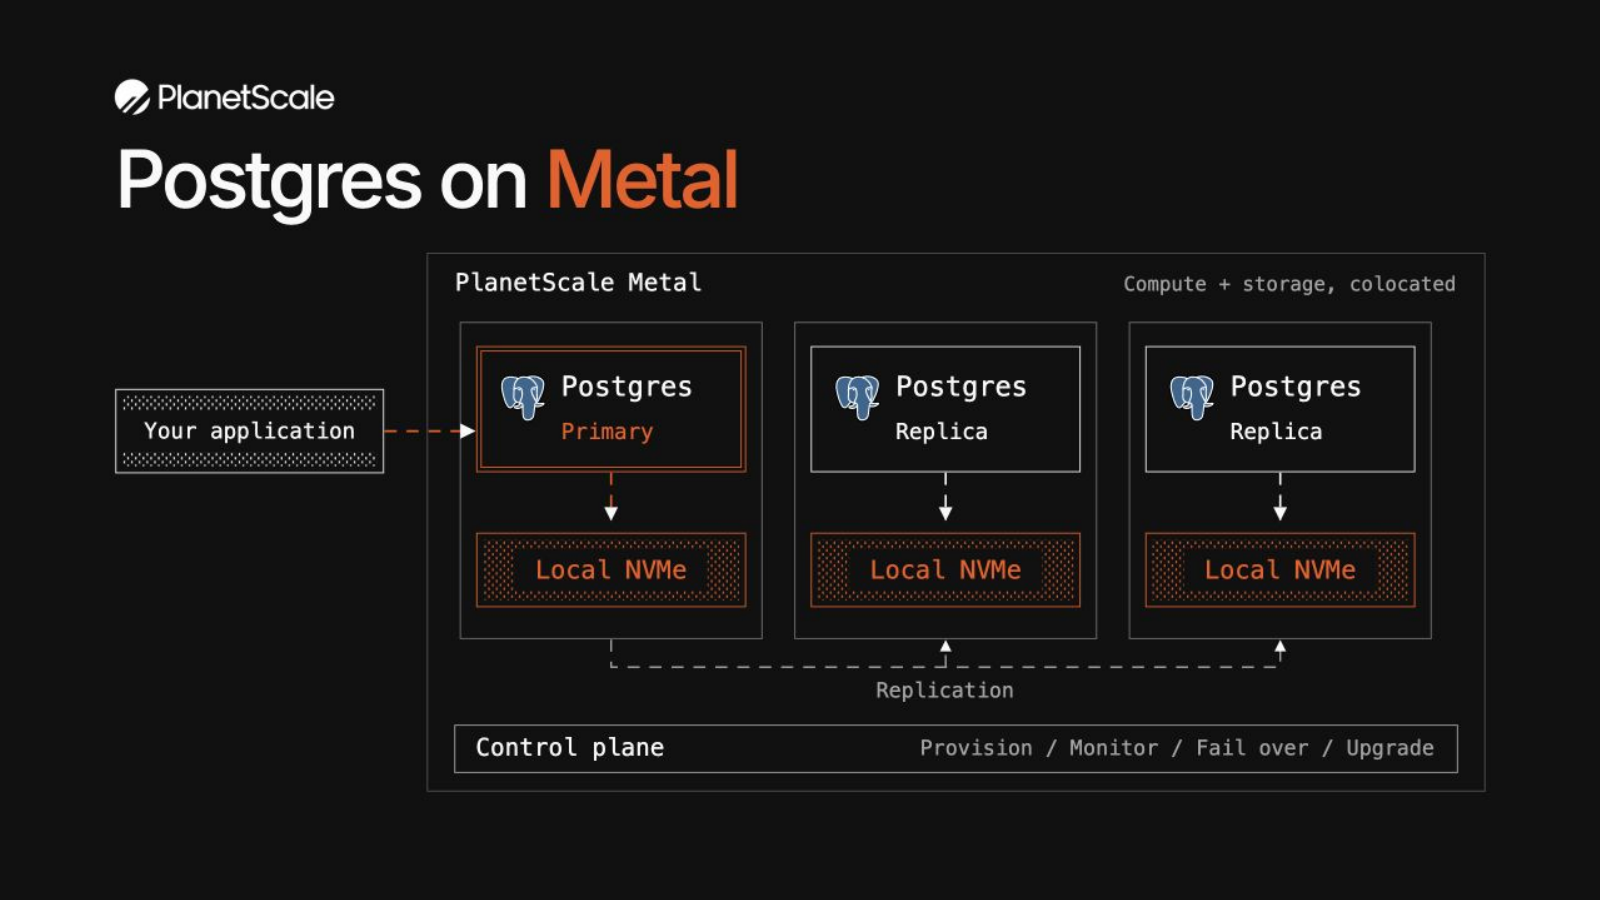
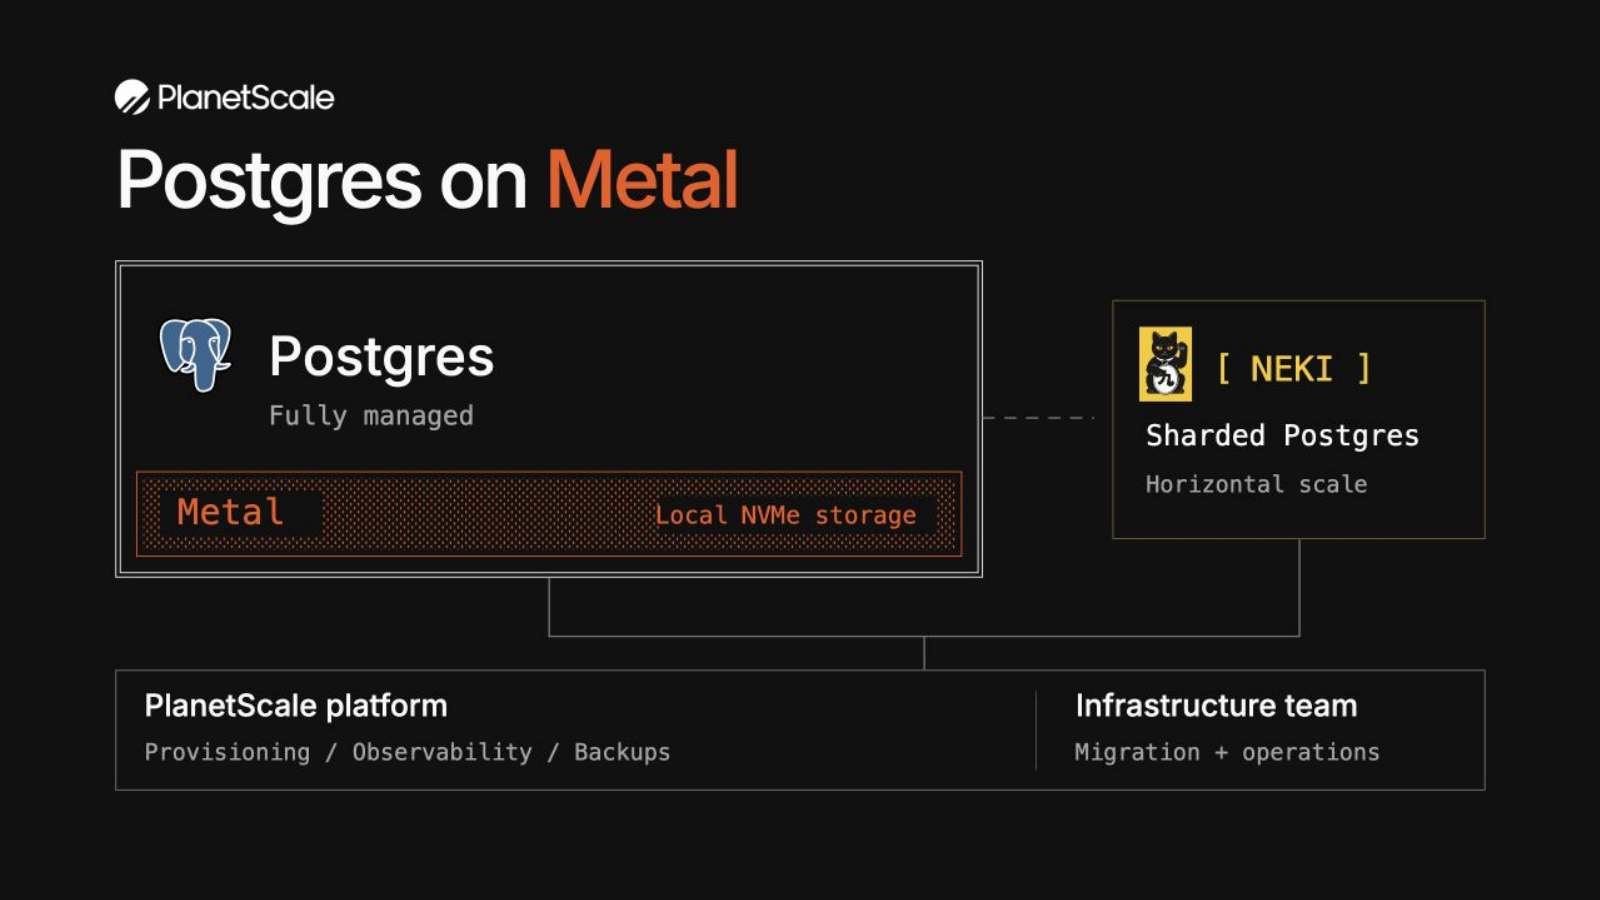
Introduce product portfolio and platform on opening slide

Changed region(s): [[0.0625, 0.28, 0.9375, 0.7778], [0.0938, 0.7467, 0.9062, 0.9022], [0.25, 0.7156, 0.2812, 0.7467]]

diff --git a/build_content.py b/build_content.py
@@ -19,26 +19,31 @@ def db(x,y,w=170,h=94,color=LINE):
 def stipple_box(x,y,w,h,label,mark,color=WHITE,size=24):
     return rect(x,y,w,h,INK,color)+rect(x+6,y+6,w-12,h-12,f'url(#{mark})','none')+rect(x+w/2-len(label)*size*.33-12,y+h/2-19,len(label)*size*.66+24,38,INK,'none')+txt(x+w/2,y+h/2+size*.34,label,size,color,'middle')
 
-# Opening: the managed Metal cluster is the hero, with a separate operating plane.
-b=rect(285,1,964,490,INK,'#555555')
-b+=txt(310,35,'PlanetScale Metal',22,WHITE)
-b+=txt(1223,35,'Compute + storage, colocated',18,GRAY,'end')
-b+=stipple_box(1,125,244,76,'Your application','metal-hero-dots',WHITE,20)
-for x,role,color in [(330,'Primary',ORANGE),(635,'Replica',WHITE),(940,'Replica',WHITE)]:
-    b+=rect(x-15,64,275,288,INK,'#777777')
-    b+=(db(x,86,245,114,color) if role=='Primary' else rect(x,86,245,114,INK,color))
-    b+=f'<image href="assets/postgresql.svg" x="{x+21}" y="111" width="42" height="44"/>'
-    b+=txt(x+77,131,'Postgres',25,WHITE)+txt(x+77,170,role,20,color)
-    b+=path(f'M{x+122.5} 201V244',color,1.8,True,arrow='metal-hero')
-    b+=stipple_box(x,256,245,67,'Local NVMe','metal-hero-accent',ORANGE,23)
-b+=path('M246 163H328',ORANGE,2,True,arrow='metal-hero')
-b+=path('M452.5 353V378H1062.5V354',GRAY,1.5,True,arrow='metal-hero')
-b+=path('M757.5 378V354',GRAY,1.5,True,arrow='metal-hero')
-b+=txt(757,406,'Replication',19,GRAY,'middle')
-b+=rect(310,431,914,43,INK,'#aaaaaa')
-b+=txt(329,459,'Control plane',22,WHITE)
-b+=txt(1203,458,'Provision / Monitor / Fail over / Upgrade',19,GRAY,'end')
-servers=svg(1250,494,b,'Your application connects to a Postgres primary on PlanetScale Metal. Each of the three database nodes pairs Postgres compute with local NVMe storage. The primary replicates to two replicas. A separate PlanetScale control plane operates the infrastructure.',mark='metal-hero')
+# Opening: product portfolio and operating foundation, not a node topology.
+b=db(1,8,790,288,WHITE)
+b+='<image href="assets/postgresql.svg" x="39" y="58" width="69" height="72"/>'
+b+=txt(140,112,'Postgres',49,WHITE,weight=500,mono=False)
+b+=txt(140,157,'Fully managed',24,GRAY)
+b+=rect(20,200,752,77,INK,ORANGE)
+b+=rect(26,206,740,65,'url(#metal-hero-accent)','none')
+b+=rect(42,217,147,42,INK,'none')+txt(58,248,'Metal',32,ORANGE)
+b+=rect(497,222,253,35,INK,'none')+txt(731,247,'Local NVMe storage',22,ORANGE,'end')
+b+=path('M791 151H893','#777777',1.5,True)
+b+=rect(910,44,339,217,INK,'#77632b')
+b+=rect(934,68,48,68,YELLOW,'none')
+b+='<image href="assets/neki-cat.svg" x="940" y="72" width="38" height="58"/>'
+b+=txt(1000,117,'[ NEKI ]',31,YELLOW)
+b+=txt(940,176,'Sharded Postgres',26,WHITE)
+b+=txt(940,219,'Horizontal scale',21,GRAY)
+b+=path('M396 297V350H1080V262','#777777',1.5)
+b+=path('M738 350V380','#777777',1.5)
+b+=rect(1,381,1248,109,INK,'#777777')
+b+=txt(27,423,'PlanetScale platform',28,WHITE,weight=500,mono=False)
+b+=txt(27,463,'Provisioning / Observability / Backups',21,GRAY)
+b+=path('M840 400V472','#555555',1)
+b+=txt(876,423,'Infrastructure team',28,WHITE,weight=500,mono=False)
+b+=txt(876,463,'Migration + operations',21,GRAY)
+servers=svg(1250,494,b,'PlanetScale product overview: fully managed Postgres on Metal with local NVMe storage, alongside Neki for sharded Postgres and horizontal scale. The PlanetScale platform and infrastructure team support the database products. This is a product map, not a query path or migration flow.',mark='metal-hero')
 
 # HA: full-height architecture makes the query paths and control plane the focus.
 b=stipple_box(470,0,310,52,'Application','ha-arrow-dots',WHITE,25)
@@ -143,7 +148,7 @@ b+=txt(60,365,'QUERIES / SECOND',15,'#b9a762',mono=True)+txt(756,365,'LOG SCALES
 scale=svg(820,380,b,'Neki read-only point-select benchmark: 5 shards delivered 999,624 QPS; 50 shards delivered 9,923,900 QPS; 512 shards delivered 118,538,803 QPS. Both axes use logarithmic scales.',mark='scale-arrow',color=YELLOW)
 
 slides=[
- dict(id='opening',label='PlanetScale Postgres on Metal',theme='opening',html=f'''<h1>Postgres on <span class="accent">Metal</span></h1><div class="opening-architecture">{servers}</div>''',notes="1:15. “You already run Postgres. We bring the hardware and the operating platform.” Trace the application into the primary, then down to local NVMe. “Compute and storage run together on each machine. We replicate across nodes, and our control plane operates the cluster.” This is a simplified view of an HA Metal cluster; the availability slide adds zones, endpoints, and replication detail. The control plane is separate from the application query path. Connect the architecture to the buyer: faster requests, less infrastructure work, and a path to horizontal scale when needed. Ask: “Which is taking the most engineering attention today: performance, availability, or operating the database?” Keep detailed failover and sizing discussion for later. The immediate offer is hosted Postgres on Metal. Unlimited IOPS is PlanetScale's product wording, not infinite physical throughput. Transition: “Vitalize is one Postgres team that made this move.” Sources: https://planetscale.com/metal and https://planetscale.com/blog/benchmarking-postgres."),
+ dict(id='opening',label='PlanetScale Postgres on Metal',theme='opening',html=f'''<h1>Postgres on <span class="accent">Metal</span></h1><div class="opening-architecture">{servers}</div>''',notes="1:15. “PlanetScale brings together the database, the hardware, and the team operating it. For your workload, we are proposing fully managed Postgres on Metal, with local NVMe storage. Our platform handles database operations, and our infrastructure team works with you on migration and production.” Point to Neki briefly: “For workloads that eventually outgrow one machine, Neki is our sharded Postgres product.” This is a product overview, not a query path or an automatic upgrade flow. Do not describe replica topology or control-plane internals here; slide 3 covers the architecture. Neki is in Platform Preview and requires a separate compatibility and migration assessment. The immediate offer remains hosted Postgres on Metal. Ask: “Where is your team spending the most time with Postgres today?” Transition: “Vitalize is one Postgres team that made this move.” Sources: https://planetscale.com/metal ; https://planetscale.com/docs/neki ; https://planetscale.com/blog/benchmarking-postgres."),
  dict(id='vitalize',label='Vitalize: 2 ms p95, half the vCPUs',theme='vitalize',html=f'''<h2>Vitalize: <span class="accent">2 ms p95</span></h2><div class="customer-story"><span>Hospital staffing software</span><span>400 GB / 150 million rows</span></div><div class="customer-move"><span>Supabase</span><span class="move-line"></span><strong>PlanetScale Metal</strong></div><div class="vitalize-charts"><div>{vitalize_latency}</div><div>{vitalize_compute}</div></div>''',notes='1:45. “Vitalize runs hospital staffing software. They moved a 400 GB Postgres database with 150 million rows from Supabase to PlanetScale Metal. They report about 2 ms p95 on half the vCPUs, with the same 16 GB of RAM.” Tell the customer story before explaining the graphs: demanding database reads, the move, then the result. The latency plot is their actual PlanetScale Query Insights capture after migration, not a paired before/after percentile. No comparable Supabase p95 is published. The 200 GB JSONB-heavy table comparison separately reports 50-second average reads before and 1.2-second maximum reads after; do not calculate a speedup from unlike statistics. The cutover included taking the app offline. These are customer-reported outcomes, not a guarantee. Transition: “Here is the platform operating that database.” Source: https://vitalize.care/blog/from-supabase-to-planetscale . Other cases and suitable alternatives: docs/customer-case-studies.md.'),
  dict(id='availability',label='Your Postgres. Operated by PlanetScale',theme='availability',html=f'''<div class="title-with-stat"><h2>Postgres across three zones</h2><div class="sla"><strong>99.99<span>%</span></strong><p>single-region HA SLA</p></div></div><div class="ha-diagram">{ha}</div>''',notes="2:00. “We operate a primary and two replicas across three availability zones. Your application has a primary endpoint and a replica endpoint; our control plane manages health and production changes.” Trace application traffic first, replication second, management last. Use replicas for reads that tolerate replication lag. Semi-synchronous streaming replication acknowledges from at least one replica. The control plane is outside the SQL query path and handles provisioning, failover, resizing, and upgrades. Backups and point-in-time recovery complement HA. Automatic failover can interrupt connections, so applications need retries. The diagram is a simplified HA topology. 99.99% is the single-region HA SLA under the applicable agreement, not a guarantee of no interruption. It excludes single-node and beta offerings. Hosted infrastructure is the main offer; if data location requires it, assess single-tenancy or PlanetScale Managed in the customer's own AWS/GCP account. Transition: “Local NVMe is the hardware foundation. Let's look at its performance under load.” Sources: https://planetscale.com/blog/benchmarking-postgres ; https://planetscale.com/legal/planetscale-service-level-agreement ; https://planetscale.com/docs/plans/managed ."),
  dict(id='metal',label='Postgres on Metal: throughput and p99',theme='metal',html=f'''<div class="metal-heading"><h2>More throughput. Lower p99</h2><p class="metal-line">Postgres on Metal</p></div><div class="benchmark-grid"><div><h3>Throughput <span>mean queries / second</span></h3>{bars}</div><div><h3>p99 latency <span>milliseconds / 1-second intervals</span></h3><div class="chart-legend"><span class="ps-dot">PlanetScale</span><span class="aurora-dot">Aurora</span></div>{latency}</div></div><p class="workload">TPCC-like / 500 GB / 32 connections / 5-minute run</p>''',notes="1:45. “In this mixed read/write benchmark, Postgres on Metal delivers more throughput and lower p99 than these tested configurations. We can evaluate the same questions against your application.” Left: arithmetic mean QPS across 300 one-second samples with 32 concurrent connections: PlanetScale 16,338.6276; Aurora 10,908.9315; AlloyDB 10,355.0109; Supabase 5,270.2068. Right: one-second interval p99 samples from the same TPCC-like benchmark, not an aggregate run-wide percentile. PlanetScale ranges 170.48–223.34 ms; Aurora 325.98–733 ms. Higher QPS and lower p99 are distinct findings. PlanetScale M-320 has 4 vCPU, 32 GB RAM, and 937 GB local NVMe; Aurora and AlloyDB use 4 vCPU/32 GB; Supabase uses 8 vCPU/32 GB and 12k IOPS. Clients run in each provider's cloud region; AlloyDB uses GCP, the others AWS. Work is sent to the primary, not summed across replicas. These are vendor-run synthetic results with different hardware and infrastructure, not isolated proof that NVMe causes every difference. The site's rounded ~18k headline spans other runs; this deck deliberately uses a single concurrency and exact samples. A separate read-only test has roughly equal average throughput for Aurora and PlanetScale, so do not claim every workload is faster by this ratio. Ask: “Which workload would we need to reproduce for this to matter to you?” Validate p95/p99, throughput, errors, and resource use in discovery. Transition: “When one machine becomes the constraint, Neki extends the architecture across Postgres shards.” Sources: https://planetscale.com/benchmarks ; https://planetscale.com/benchmarks/aurora ; https://planetscale.com/benchmarks/alloydb ; https://planetscale.com/benchmarks/supabase . Data definitions: docs/postgres-metal-benchmarks.md."),

diff --git a/docs/pitch-blueprint.md b/docs/pitch-blueprint.md
@@ -167,6 +167,6 @@ The proposed session should establish compatibility questions, a target deployme
 No new company overview, agenda, ROI calculator, logo wall, or thank-you slide is needed. The seven-slide constraint is met without combining migration and Neki into the same closing slide.
 
 
-## Opening revision — architecture first
+## Opening revision — product introduction
 
-The opening now reads “Postgres on Metal” beneath the PlanetScale lockup. The main visual shows an application connecting to a primary, two replicas, local NVMe on each machine, and a separate control plane. Removed the generic benefit blocks and supporting paragraph. This is the platform introduction; slide 3 supplies the availability-zone and endpoint detail. Keep the opening to 75 seconds and move to the Vitalize customer result.
+Slide 1 introduces the offer: fully managed Postgres on Metal, Neki as the horizontal scaling product, and the PlanetScale platform and infrastructure team beneath both. This product map supersedes the opening node diagram. Reserve replicas, replication paths, and control-plane topology for slide 3. Keep the opening to 75 seconds; emphasize Postgres on Metal now and briefly introduce Neki before moving to Vitalize. The product relationship does not imply an automatic migration to Neki.

diff --git a/README.md b/README.md
@@ -59,4 +59,4 @@ Review all seven slides, then commit the source and updated portable HTML togeth
 
 ## Slide layout conventions
 
-The PlanetScale logo appears only on the opening slide. Its single-line “Postgres on Metal” heading sits above a large application → Metal cluster diagram, with local NVMe on each node and a separate control plane. Content slides start directly with a single-line heading. Keep secondary results with their charts (for example, “Half the vCPUs” above the Vitalize compute chart), and give diagrams their full available width. Neki branding stays in its title row. Avoid restoring a repeated logo spacer or decorative banner.
+The PlanetScale logo appears only on the opening slide. Its single-line “Postgres on Metal” heading sits above a product overview: managed Postgres and Metal, Neki for horizontal scale, and the shared PlanetScale platform and infrastructure team. Node topology belongs on slide 3. Content slides start directly with a single-line heading. Keep secondary results with their charts (for example, “Half the vCPUs” above the Vitalize compute chart), and give diagrams their full available width. Neki branding stays in its title row. Avoid restoring a repeated logo spacer or decorative banner.
